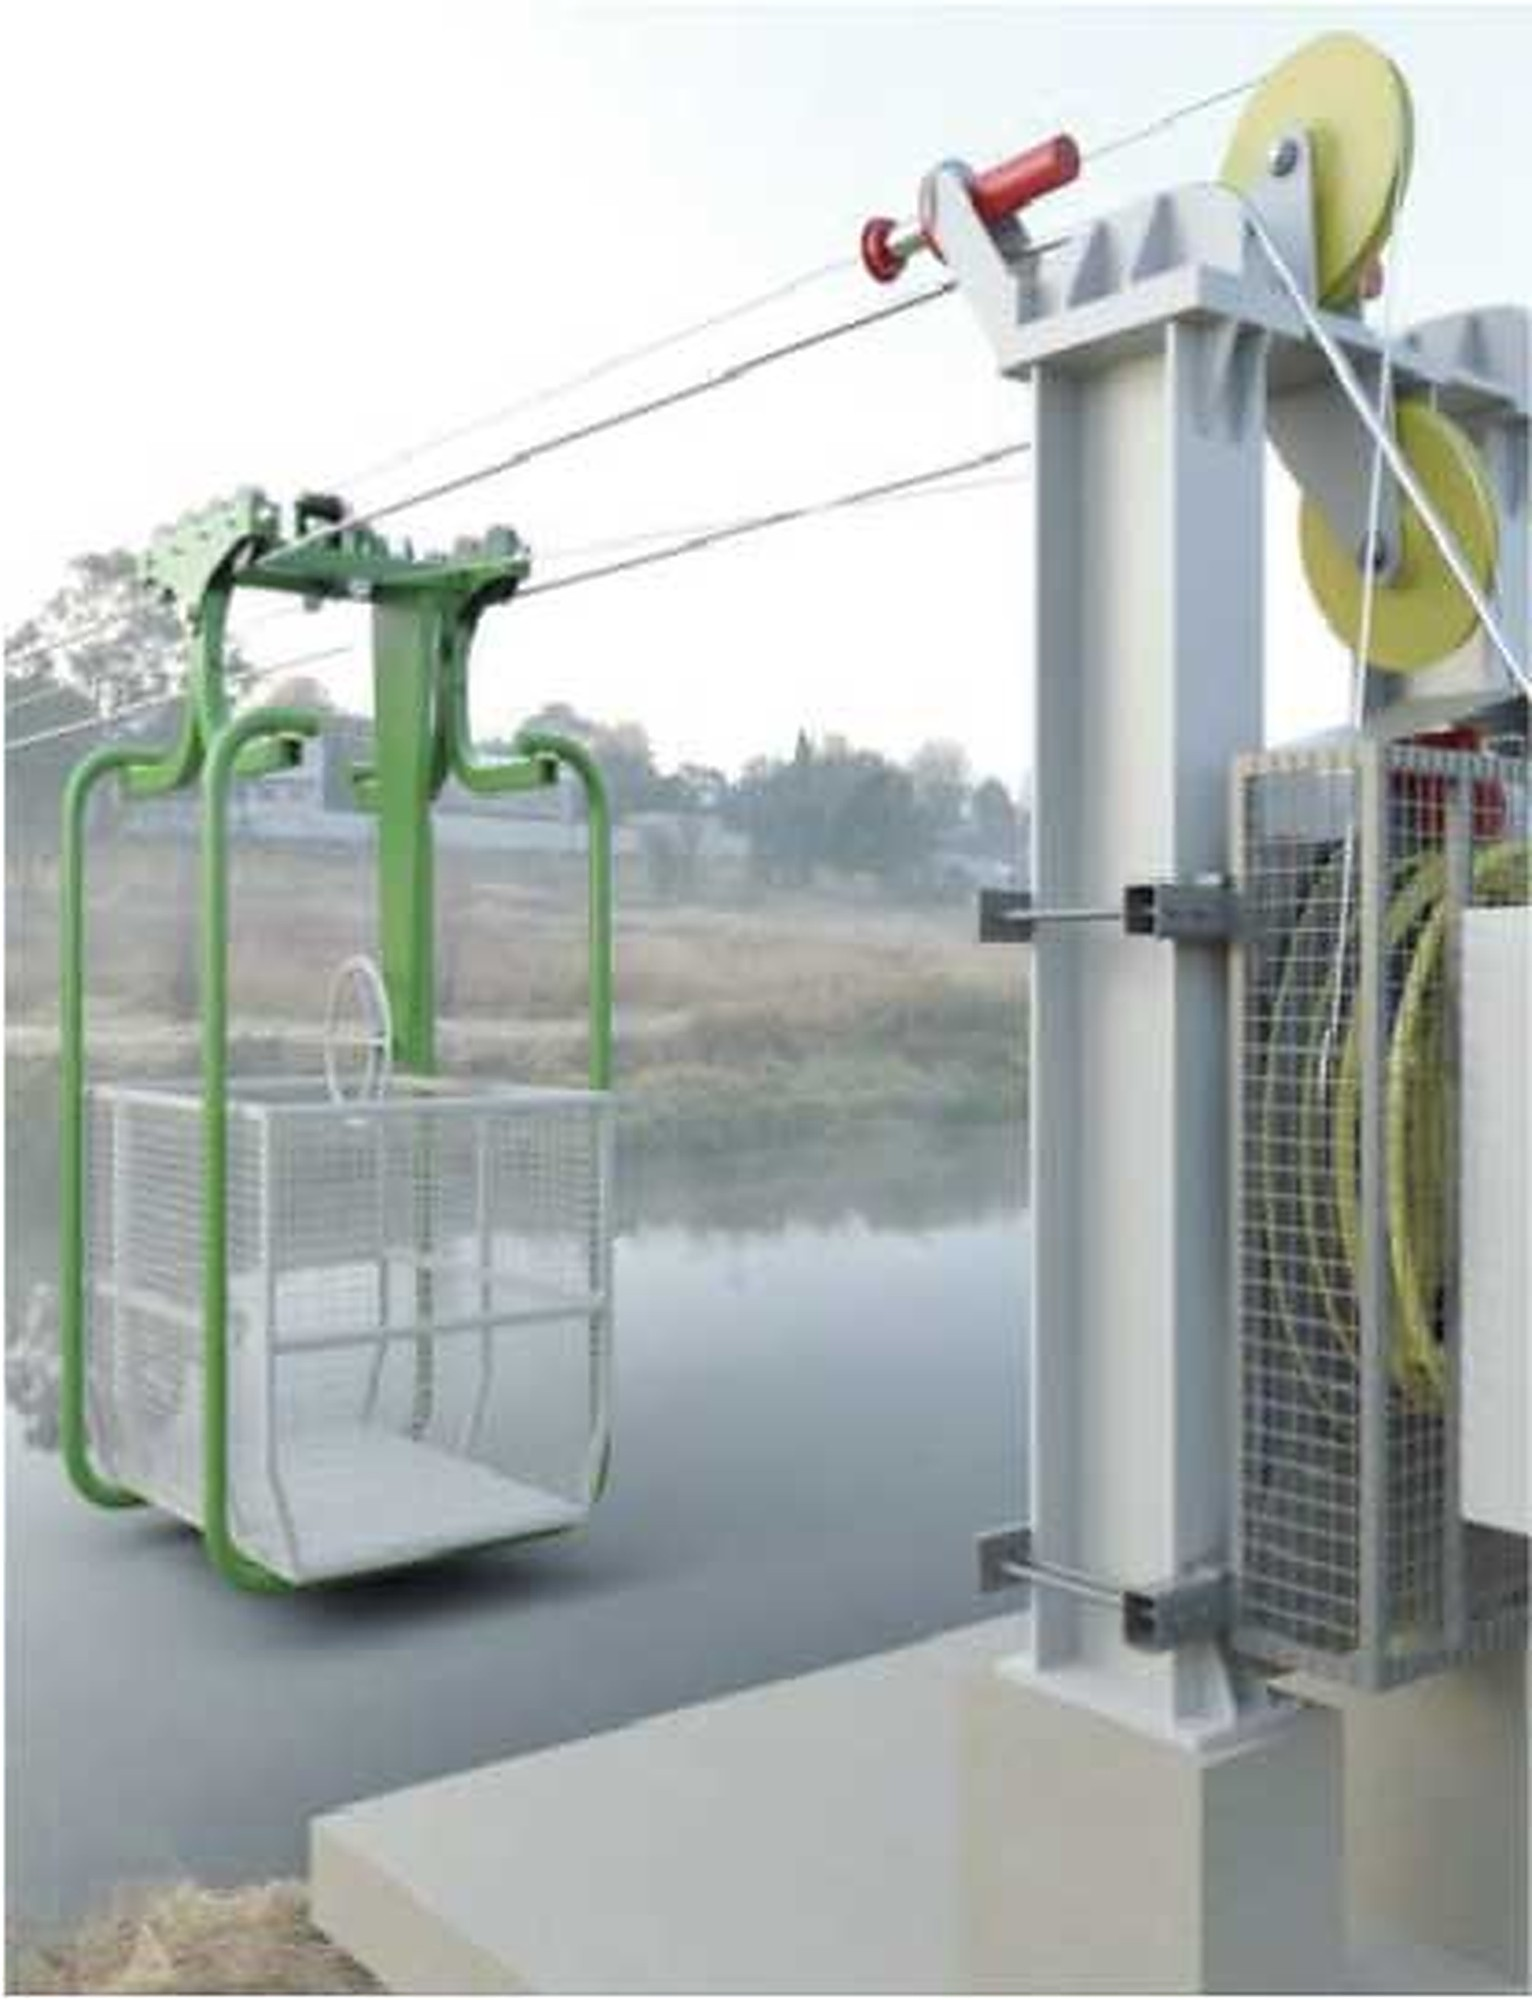
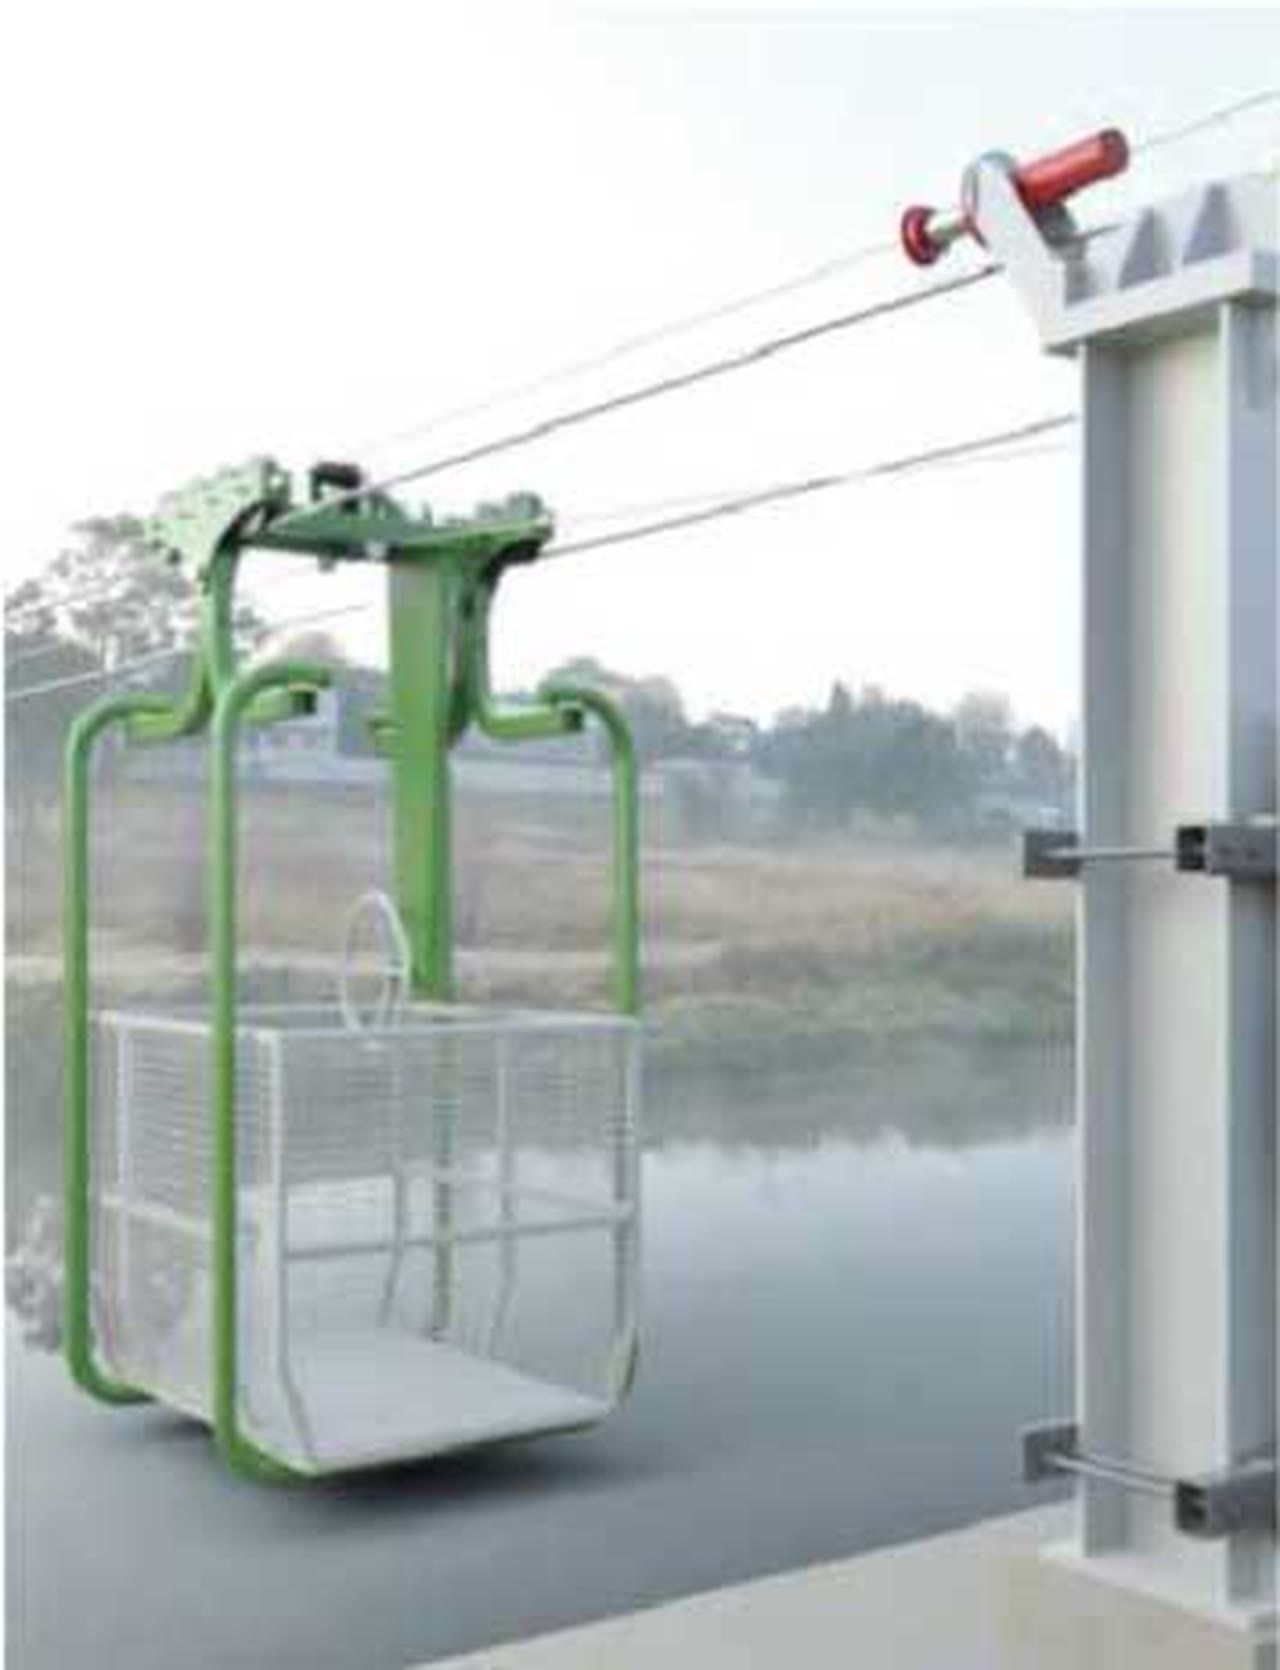
recorte de imagen huaro electrico

diff --git a/sistemas.html b/sistemas.html
@@ -1,4 +1,4 @@
-<!DOCTYPE html>
+<!DOCTYPE html>
 <html lang="es">
 <head>
   <meta charset="utf-8">
@@ -80,7 +80,7 @@
     <section class="section section--white" id="red">
       <div class="wrap">
         <article class="sys-block inview">
-          <div class="sys-visual"><img src="images/sys-grid.jpg" alt="Tracción con red eléctrica — huaro motorizado" width="1532" height="2000" loading="lazy"></div>
+          <div class="sys-visual"><img src="images/sys-grid.jpg" alt="Tracción con red eléctrica — huaro motorizado" width="1280" height="1670" loading="lazy"></div>
           <div class="sys-block__body">
             <p class="overline">TRE-ER-H-500 kg · 200 m</p>
             <h2>Tracción con red eléctrica</h2>
